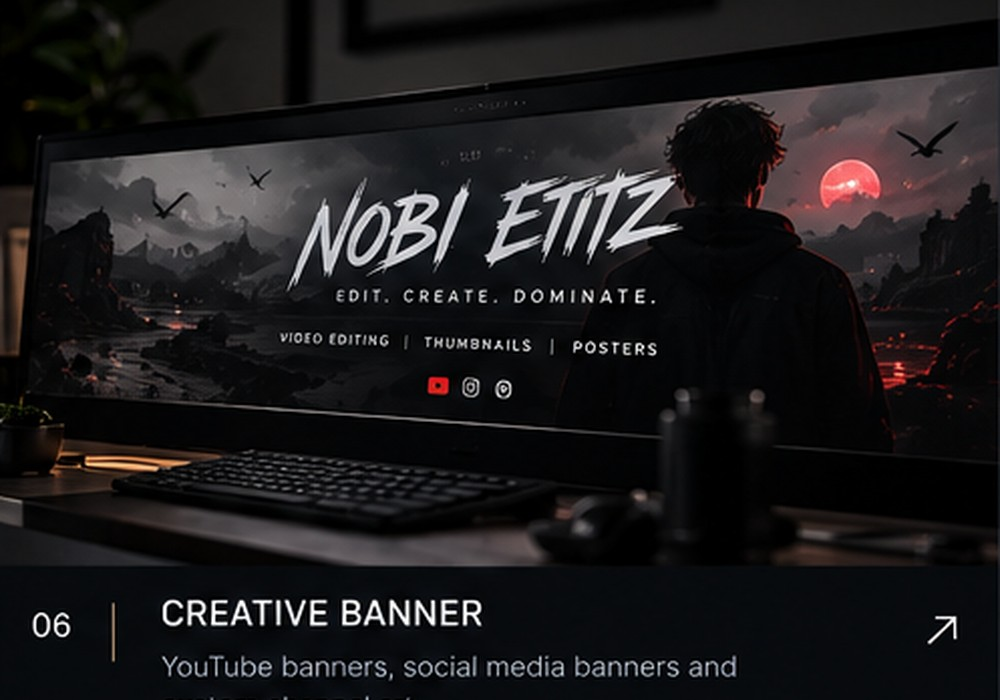
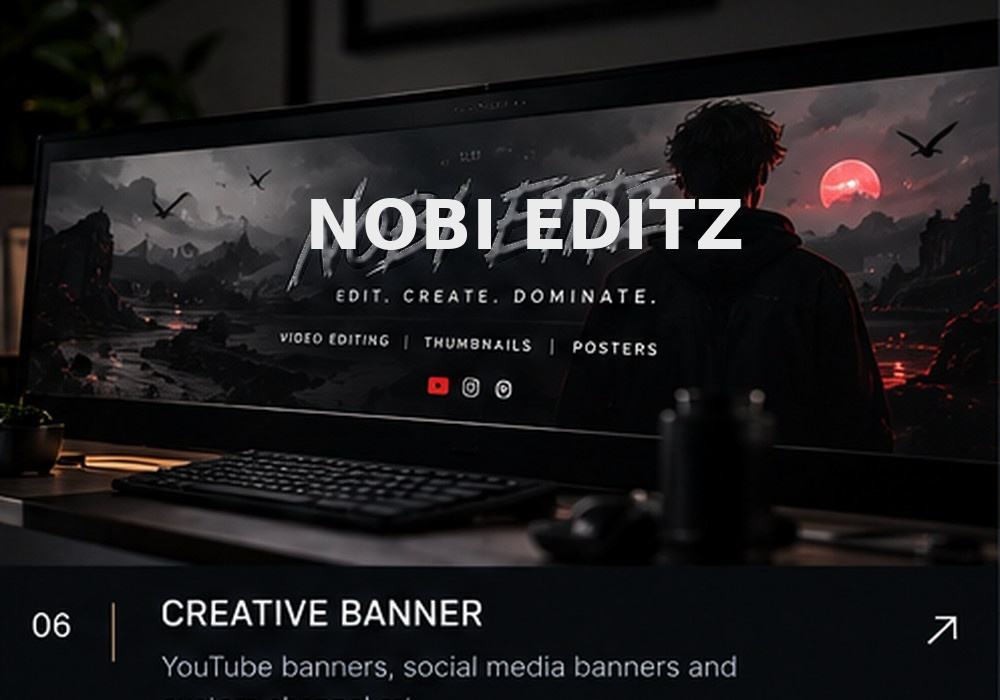
Add files via upload

Changed region(s): [[0.279, 0.24, 0.744, 0.39]]

diff --git a/index.html b/index.html
@@ -3,8 +3,8 @@
 <head>
 <meta charset="UTF-8">
 <meta name="viewport" content="width=device-width,initial-scale=1">
-<meta name="description" content="NOBI ETITZ — Professional Video Editing, Thumbnail & Poster Design.">
-<title>NOBI ETITZ — Edit. Create. Dominate.</title>
+<meta name="description" content="NOBI EDITZ — Professional Video Editing, Thumbnail & Poster Design.">
+<title>NOBI EDITZ — Edit. Create. Dominate.</title>
 <style>
 :root{--bg:#08090d;--panel:#0e1118;--text:#f5f6fa;--muted:#9da4b4;--accent:#ff315d;--line:#202532}
 *{box-sizing:border-box;margin:0;padding:0}html{scroll-behavior:smooth}
@@ -38,9 +38,9 @@ footer{text-align:center;border-top:1px solid var(--line);padding:27px;color:#73
 </head>
 <body>
 <header class="nav">
-<a class="logo" href="#">NOBI <span>ETITZ</span></a>
+<a class="logo" href="#">NOBI <span>EDITZ</span></a>
 <nav class="navlinks"><a href="#services">Services</a><a href="#showcase">Showcase</a><a href="#pricing">Pricing</a><a href="#contact">Contact</a></nav>
-<a class="btn" href="https://wa.me/916264279415?text=Hi%20NOBI%20ETITZ%2C%20I%20want%20to%20place%20an%20order." target="_blank">Order Now</a>
+<a class="btn" href="https://wa.me/916264279415?text=Hi%20NOBI%20EDITZ%2C%20I%20want%20to%20place%20an%20order." target="_blank">Order Now</a>
 </header>
 
 <section class="hero">
@@ -48,12 +48,12 @@ footer{text-align:center;border-top:1px solid var(--line);padding:27px;color:#73
 <h1>EDIT.<br><span>CREATE.</span><br>DOMINATE.</h1>
 <p>Professional video editing, thumbnails and poster design built to make your content look sharper, cleaner and more memorable.</p>
 <div class="actions"><a class="btn" href="#showcase">View Showcase</a><a class="ghost" href="#services">Explore Services</a></div></div>
-<div class="hero-art"><div class="mark"><b>NOBI <span>ETITZ</span></b><small>EDIT · CREATE · DOMINATE</small></div></div>
+<div class="hero-art"><div class="mark"><b>NOBI <span>EDITZ</span></b><small>EDIT · CREATE · DOMINATE</small></div></div>
 </section>
 
 <section class="wrap" id="services"><div class="section-label">What I do</div>
 <h2 class="title">Design that gets<br><span style="color:var(--accent)">attention.</span></h2>
-<div class="about"><div class="card"><p>NOBI ETITZ is a creator-focused editing and design service built around one goal: making your content look sharper, more professional and more memorable.</p><br><p>Whether you're a gamer, creator, student, business owner or someone running an event, I create custom visuals that fit your style.</p></div>
+<div class="about"><div class="card"><p>NOBI EDITZ is a creator-focused editing and design service built around one goal: making your content look sharper, more professional and more memorable.</p><br><p>Whether you're a gamer, creator, student, business owner or someone running an event, I create custom visuals that fit your style.</p></div>
 <div class="card quote">“Your content deserves a look <span>&nbsp;as good as the idea behind it.</span>”</div></div>
 <div class="services"><div class="card service"><h3>🎬 Video Editing</h3><p>Gaming edits, reels, shorts, storytelling and clean creator videos.</p></div>
 <div class="card service"><h3>🖼 Thumbnail Design</h3><p>High-impact thumbnails for YouTube, creators, education and entertainment.</p></div>
@@ -73,15 +73,15 @@ footer{text-align:center;border-top:1px solid var(--line);padding:27px;color:#73
 
 <section class="wrap" id="pricing"><div class="section-label">Simple pricing</div><h2 class="title">Start small.<br>Look <span style="color:var(--accent)">premium.</span></h2>
 <div class="pricegrid">
-<div class="card price"><h3>Thumbnail</h3><strong>₹99</strong> <small>/ design</small><ul><li>Custom concept</li><li>High-resolution export</li><li>Creator/gaming style</li></ul><a class="btn" href="https://wa.me/916264279415?text=Hi%20NOBI%20ETITZ%2C%20I%20want%20a%20thumbnail." target="_blank">Order</a></div>
-<div class="card price"><h3>Poster</h3><strong>₹149</strong> <small>/ design</small><ul><li>Custom event or promo design</li><li>High-resolution export</li><li>Custom visual style</li></ul><a class="btn" href="https://wa.me/916264279415?text=Hi%20NOBI%20ETITZ%2C%20I%20want%20a%20poster." target="_blank">Order</a></div>
-<div class="card price"><h3>Short Edit</h3><strong>₹199</strong> <small>/ video</small><ul><li>Clean cuts & pacing</li><li>Effects & transitions</li><li>Creator/gaming style</li></ul><a class="btn" href="https://wa.me/916264279415?text=Hi%20NOBI%20ETITZ%2C%20I%20want%20a%20short%20video%20edit." target="_blank">Order</a></div>
+<div class="card price"><h3>Thumbnail</h3><strong>₹99</strong> <small>/ design</small><ul><li>Custom concept</li><li>High-resolution export</li><li>Creator/gaming style</li></ul><a class="btn" href="https://wa.me/916264279415?text=Hi%20NOBI%20EDITZ%2C%20I%20want%20a%20thumbnail." target="_blank">Order</a></div>
+<div class="card price"><h3>Poster</h3><strong>₹149</strong> <small>/ design</small><ul><li>Custom event or promo design</li><li>High-resolution export</li><li>Custom visual style</li></ul><a class="btn" href="https://wa.me/916264279415?text=Hi%20NOBI%20EDITZ%2C%20I%20want%20a%20poster." target="_blank">Order</a></div>
+<div class="card price"><h3>Short Edit</h3><strong>₹199</strong> <small>/ video</small><ul><li>Clean cuts & pacing</li><li>Effects & transitions</li><li>Creator/gaming style</li></ul><a class="btn" href="https://wa.me/916264279415?text=Hi%20NOBI%20EDITZ%2C%20I%20want%20a%20short%20video%20edit." target="_blank">Order</a></div>
 </div></section>
 
 <section class="cta" id="contact"><div class="section-label">Start a project</div><h2 class="title">Let's make<br>something amazing.</h2>
 <p>Tell me what you need and let's turn your idea into a clean, attention-grabbing visual.</p>
-<div class="actions" style="justify-content:center"><a class="btn" href="https://wa.me/916264279415?text=Hi%20NOBI%20ETITZ%2C%20I%20want%20to%20start%20a%20project." target="_blank">WhatsApp Me</a><a class="ghost" href="mailto:kanhasharmarewa@gmail.com">Email Me</a></div>
+<div class="actions" style="justify-content:center"><a class="btn" href="https://wa.me/916264279415?text=Hi%20NOBI%20EDITZ%2C%20I%20want%20to%20start%20a%20project." target="_blank">WhatsApp Me</a><a class="ghost" href="mailto:kanhasharmarewa@gmail.com">Email Me</a></div>
 <div class="contact"><div class="card"><small>WHATSAPP</small><a href="https://wa.me/916264279415" target="_blank">+91 62642 79415</a></div><div class="card"><small>EMAIL</small><a href="mailto:kanhasharmarewa@gmail.com">kanhasharmarewa@gmail.com</a></div></div>
 </section>
-<footer>© 2026 NOBI ETITZ · Edit. Create. Dominate.</footer>
+<footer>© 2026 NOBI EDITZ · Edit. Create. Dominate.</footer>
 </body></html>
